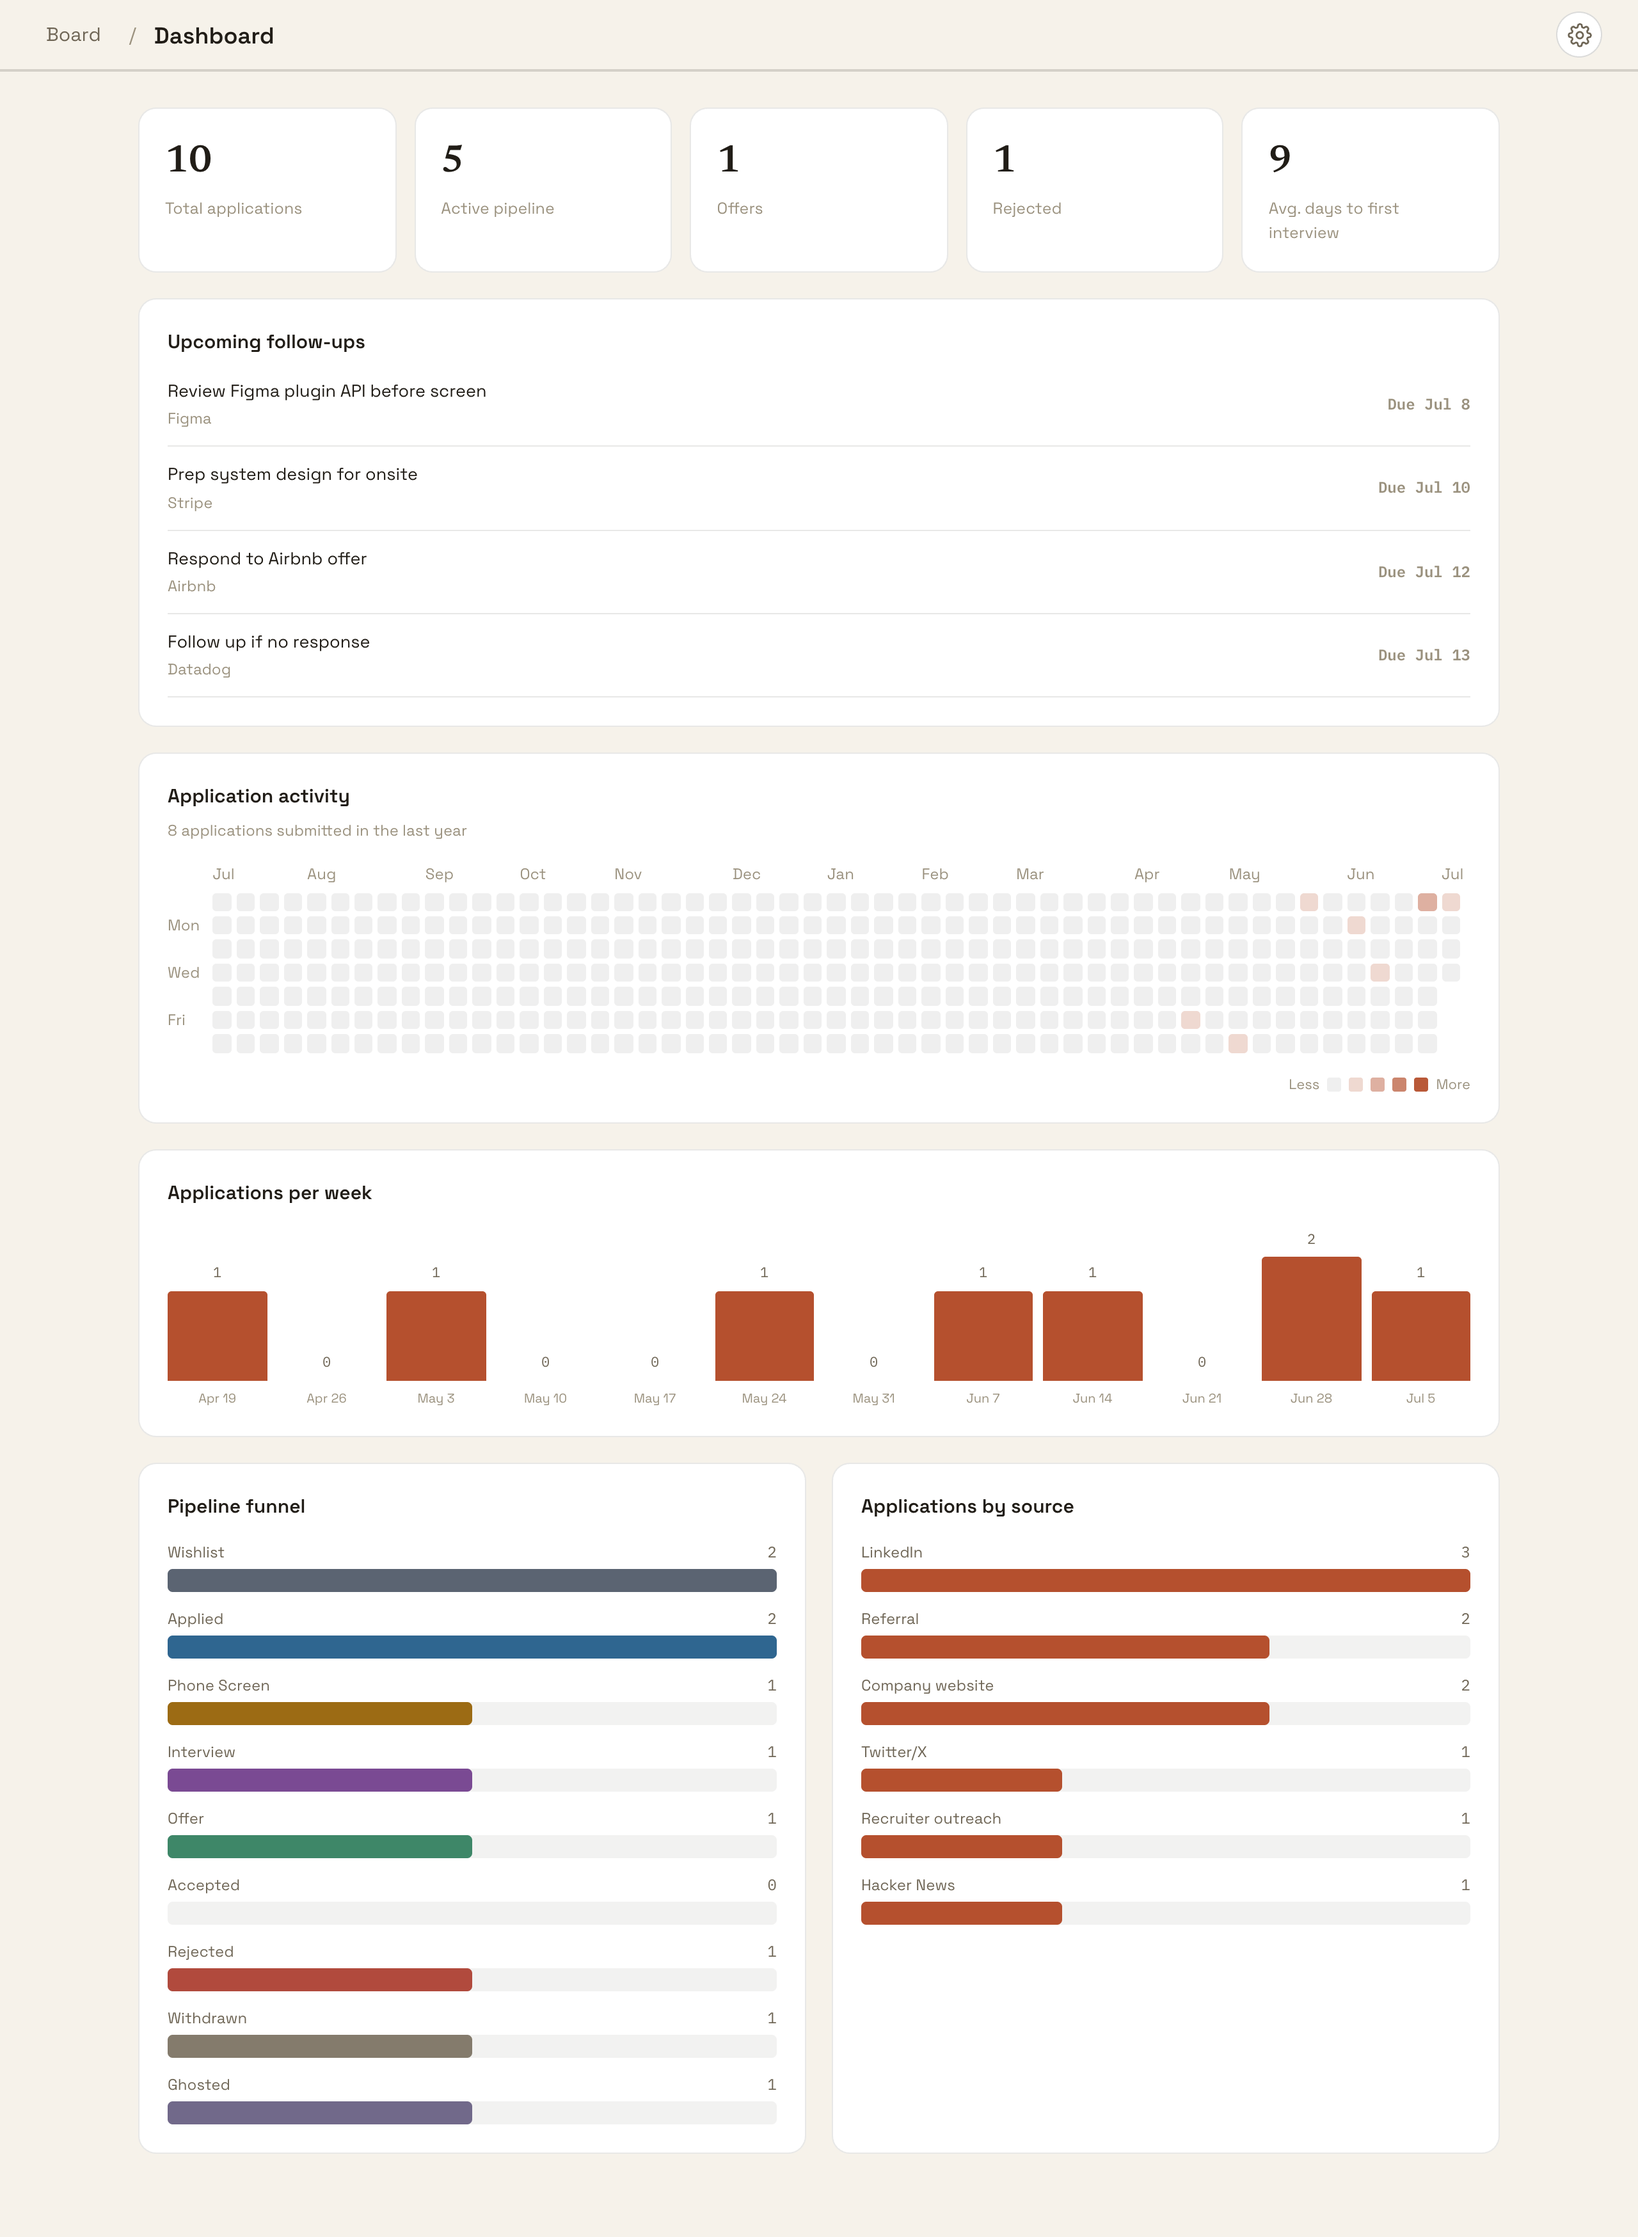
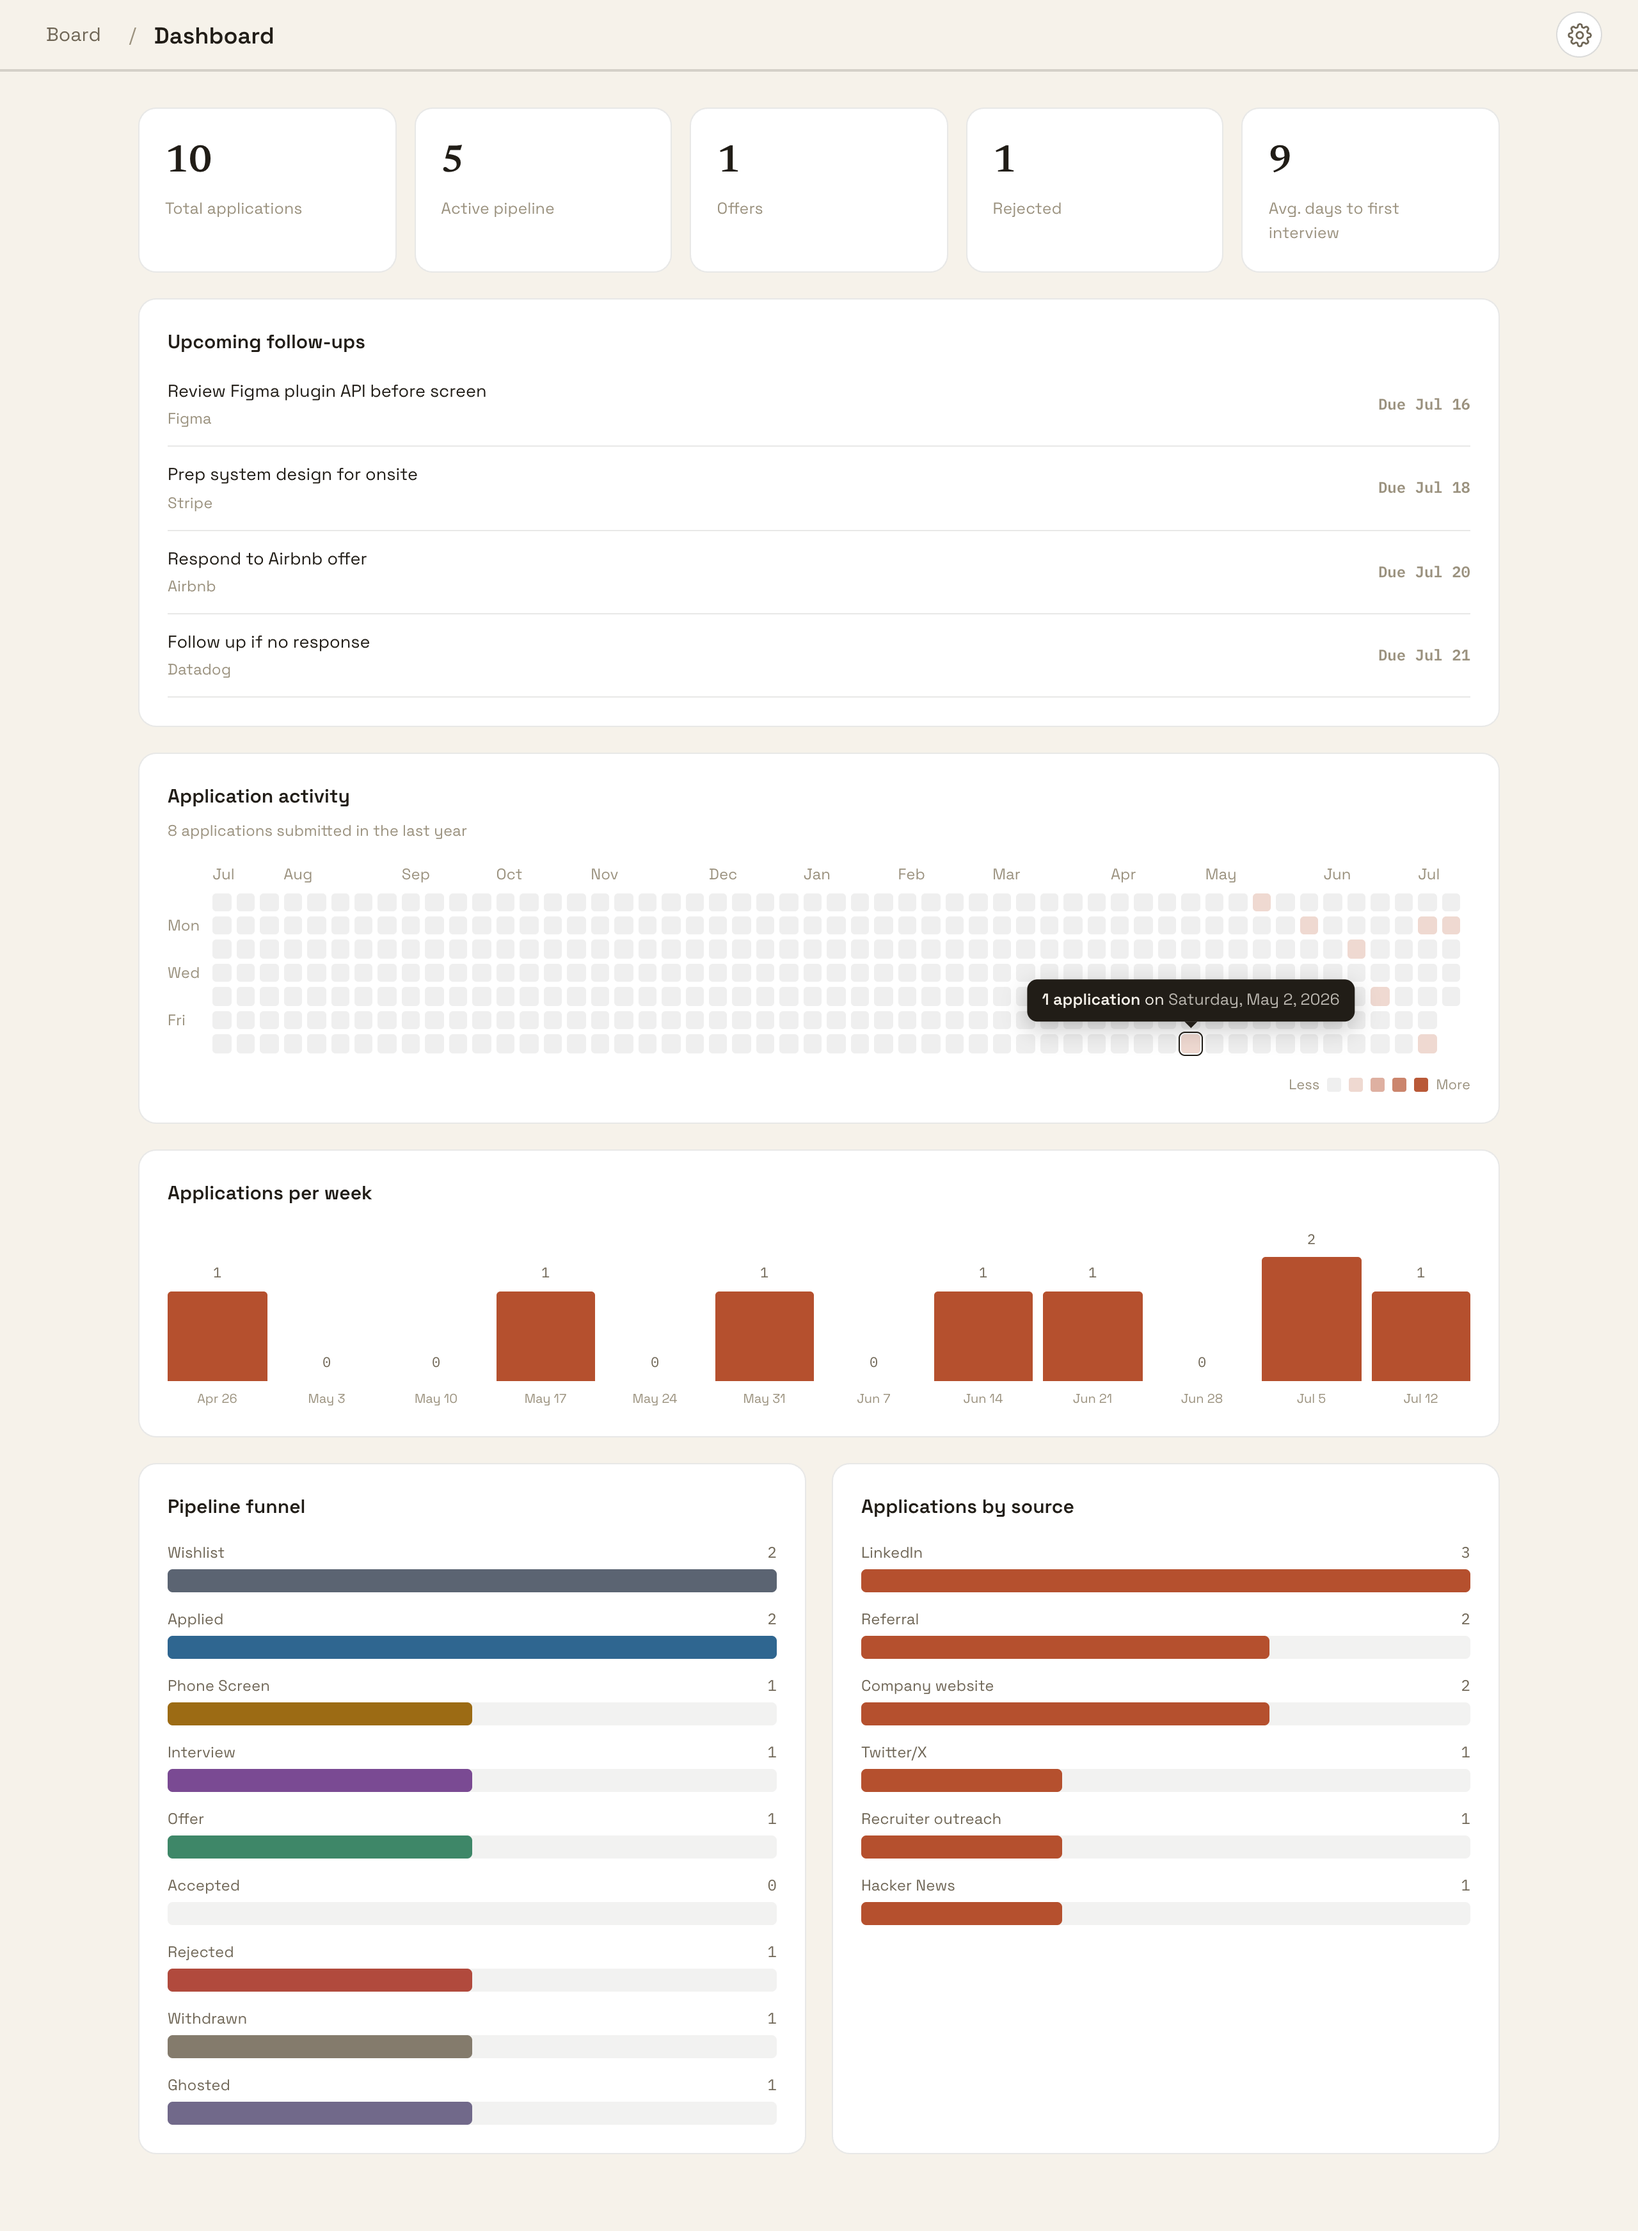
Reshoot the dashboard screenshot with the tooltip open
Regenerated from `make seed` data, same 1280px 2x framing as before, with
a day hovered so the README shows the tooltip. Also says the squares are
hoverable, which the picture now demonstrates.

Worth knowing if this ever needs redoing: fullPage can't take this shot.
The dashboard scrolls inside .dash-scroll rather than in the document, so
fullPage only ever sees the first screenful, and the tooltip is fixed —
capturing it means growing the viewport until nothing scrolls.

diff --git a/README.md b/README.md
@@ -173,8 +173,9 @@ Stats at a glance: totals, active pipeline, offers, rejections, and
 average days to first interview. **Upcoming follow-ups** lists undone
 reminders due in the next two weeks (overdue first — click a row to jump
 to its application). Below: a GitHub-style **activity heatmap** of
-applications per day over the last year, applications per week, the
-pipeline funnel, and applications by source.
+applications per day over the last year — hover any square for that day's
+count — plus applications per week, the pipeline funnel, and applications
+by source.
 
 ### Dark mode
 
